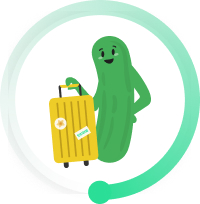
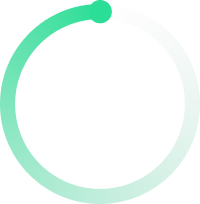
fix & 스피너 오이는 고정

diff --git a/src/components/Spinner.tsx b/src/components/Spinner.tsx
@@ -1,5 +1,6 @@
 import React, { useState, useEffect } from "react";
 import 로딩중 from "../img/로딩중.jpg";
+import 로딩오이 from "../img/로딩오이.jpg";
 import styled from "styled-components";
 
 function Spinner() {
@@ -8,7 +9,7 @@ function Spinner() {
   useEffect(() => {
     const interval = setInterval(() => {
       setRotation((prevRotation) => (prevRotation + 1) % 360); // 회전 속도를 늦추기 위해 1도씩 증가하도록 수정
-    }, 50); // 간격을 50ms로 조정하여 늦은 속도로 회전하도록 수정
+    }, 20); // 간격을 50ms로 조정하여 늦은 속도로 회전하도록 수정
 
     return () => clearInterval(interval);
   }, []);
@@ -22,6 +23,7 @@ function Spinner() {
           transform: `rotate(${rotation}deg)`,
         }}
       />
+      <StOyiImg src={로딩오이} alt="로딩 오이" />
     </StContainer>
   );
 }
@@ -40,4 +42,12 @@ const StContainer = styled.div`
 const StImg = styled.img`
   width: 200px;
   height: 200px;
+`;
+
+const StOyiImg = styled.img`
+  /* 로딩 오이 이미지 스타일링 */
+  position: absolute;
+  width: 95px;
+  height: 125px;
+  z-index: 5; /* 로딩 중 이미지 위에 오이 이미지를 배치하기 위해 z-index 조정 */
 `;
